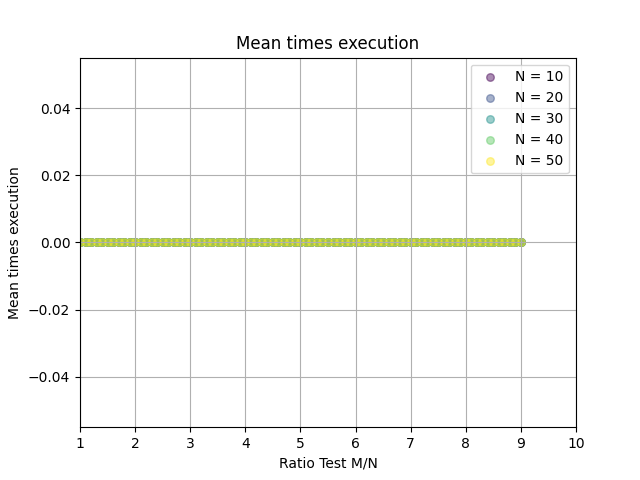
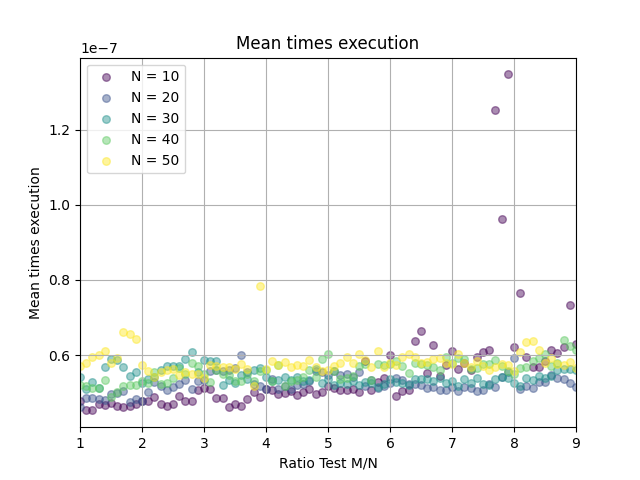
Add Unit Propagation

diff --git a/main.py b/main.py
@@ -5,9 +5,10 @@ import matplotlib.pyplot as plt
 from timeit import default_timer as timer
 
 debug = False
+H = False
 
 
-def probability_test(n_var, num_c, n_test):
+def probability_test(n_var, num_c, n_test, heuristic):
     x = []
     y = []
     time = []
@@ -19,7 +20,7 @@ def probability_test(n_var, num_c, n_test):
         for i in range(n_test):
             clauses = generate_cnf(n_var, m)
             start = timer()
-            result = is_satisfiable(clauses, n_var, debug)
+            result = is_satisfiable(clauses, n_var, heuristic, debug)
             end = timer()
             t = t + (end - start)
             if result is not None:
@@ -31,6 +32,29 @@ def probability_test(n_var, num_c, n_test):
     return x, y, time
 
 
+def satisfiability_plot(n_var, num_c, n_test, heuristic):
+    x = []
+    time = []
+    results = []
+    for m in num_c:
+        ratio = m / n_var
+        print(ratio)
+        for i in range(n_test):
+            clauses = generate_cnf(n_var, m)
+            start = timer()
+            result = is_satisfiable(clauses, n_var, heuristic, debug)
+            end = timer()
+
+            x.append(ratio)
+            time.append(end - start)
+            if result is not None:
+                results.append(1)
+            else:
+                results.append(0)
+
+    return x, time, results
+
+
 if __name__ == "__main__":
     n_vars = [10, 20, 30, 40, 50]
     n_test = 200
@@ -40,7 +64,7 @@ if __name__ == "__main__":
     times_saved = []
     for var in n_vars:
         num_c = np.arange(var, (var * 9) + 1, int(var / 10))
-        x, y, times = probability_test(var, num_c, n_test)
+        x, y, times = probability_test(var, num_c, n_test, H)
         times_saved.append(times)
         x_saved.append(x)
         plt.scatter(x, y, color=color[j], s=30, alpha=0.45, label="N = " + str(var))
@@ -52,8 +76,8 @@ if __name__ == "__main__":
     plt.grid(True)
     plt.legend()
     plt.ylim(0, 100)
-    plt.xlim(1, 10)
-    plt.xticks(range(1, 11, 1))
+    plt.xlim(1, 9)
+    plt.xticks(range(1, 10, 1))
     plt.savefig('output/plt_prob.png')
     plt.savefig('output/plt_prob.pdf')
 
@@ -69,7 +93,25 @@ if __name__ == "__main__":
     plt.ylabel('Mean times execution')
     plt.grid(True)
     plt.legend()
-    plt.xlim(1, 10)
-    plt.xticks(range(1, 11, 1))
+    plt.xlim(1, 9)
+    plt.xticks(range(1, 10, 1))
     plt.savefig('output/plt_times.png')
     plt.savefig('output/plt_times.pdf')
+
+    plt.close()
+
+    x, y, c = satisfiability_plot(30, np.arange(30, (30 * 9) + 1, int(30 / 10)), 100, H)
+
+    for i in range(len(x)):
+        if c[i] == 1:
+            plt.scatter(x[i], y[i], color="Blue", s=18, alpha=0.50)
+        else:
+            plt.scatter(x[i], y[i], color="Red", s=18, alpha=0.45)
+
+    plt.xlabel('Ratio Test M/N')
+    plt.ylabel('Mean times execution')
+    plt.grid(True)
+    plt.xlim(1, 9)
+    plt.xticks(range(1, 10, 1))
+    plt.savefig('output/plt_sat.png')
+    plt.savefig('output/plt_sat.pdf')

diff --git a/SAT.py b/SAT.py
@@ -1,6 +1,3 @@
-
-
-
 def simplify_formula(formula, variable, value):
     new_formula = []
     for clause in formula:
@@ -20,7 +17,7 @@ def simplify_formula(formula, variable, value):
     return new_formula
 
 
-def backtrack(formula, variables, labeling, debug):
+def backtrack(formula, variables, labeling, heuristic, debug):
     if debug:
         print(f"Backtracking with formula: {formula}, variables: {variables}, labeling: {labeling}")
 
@@ -29,7 +26,30 @@ def backtrack(formula, variables, labeling, debug):
     if any(not clause for clause in formula):
         return None  # Unsatisfiable
 
-    # Choose an unassigned variable (heuristic can be improved)
+    # HEURISTICS
+    if heuristic:
+        # Unit Propagation
+        unit_clauses = [clause[0] for clause in formula if len(clause) == 1]
+        for unit in unit_clauses:
+            if debug:
+                print(f"Unit propagation with unit clause: {unit}")
+            if unit > 0:
+                formula = simplify_formula(formula, unit, True)
+                labeling[unit] = True
+            else:
+                formula = simplify_formula(formula, -unit, False)
+                labeling[-unit] = False
+
+            if formula is None:
+                return None  # Conflict during unit propagation
+
+            if abs(unit) in variables:
+                variables.remove(abs(unit))
+
+        if not variables:
+            return labeling
+
+    # CLASSIC SAT
     variable = variables[0]
     remaining_variables = variables[1:]
 
@@ -40,7 +60,7 @@ def backtrack(formula, variables, labeling, debug):
     if debug:
         print(f"Trying variable {variable} = True, simplified formula: {simplified_formula}")
     if simplified_formula is not None:
-        result = backtrack(simplified_formula, remaining_variables, new_labeling, debug)
+        result = backtrack(simplified_formula, remaining_variables, new_labeling, heuristic, debug)
         if result is not None:
             return result
 
@@ -50,14 +70,14 @@ def backtrack(formula, variables, labeling, debug):
     if debug:
         print(f"Trying variable {variable} = False, simplified formula: {simplified_formula}")
     if simplified_formula is not None:
-        result = backtrack(simplified_formula, remaining_variables, new_labeling, debug)
+        result = backtrack(simplified_formula, remaining_variables, new_labeling, heuristic, debug)
         if result is not None:
             return result
 
     return None  # Unsatisfiable
 
 
-def is_satisfiable(c, n, debug):
+def is_satisfiable(c, n, heuristic, debug):
     variables = list(range(1, n + 1))
     labeling = {}
-    return backtrack(c, variables, labeling, debug)
+    return backtrack(c, variables, labeling, heuristic, debug)
